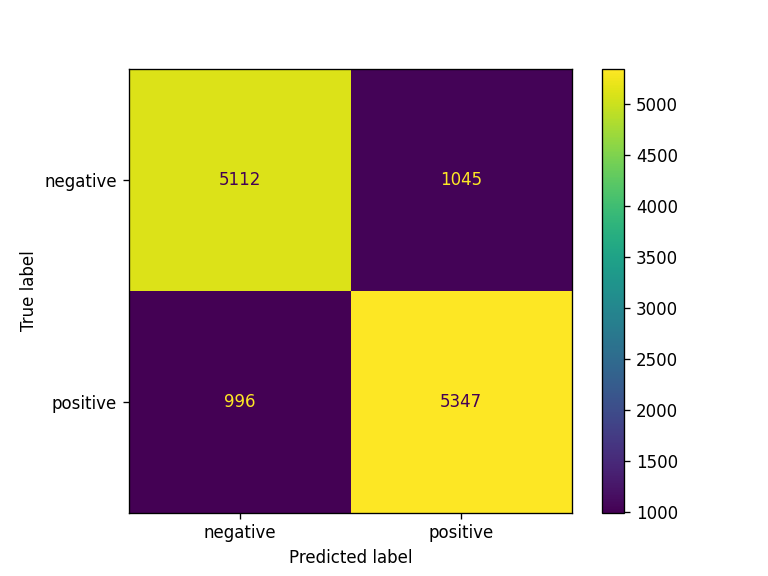
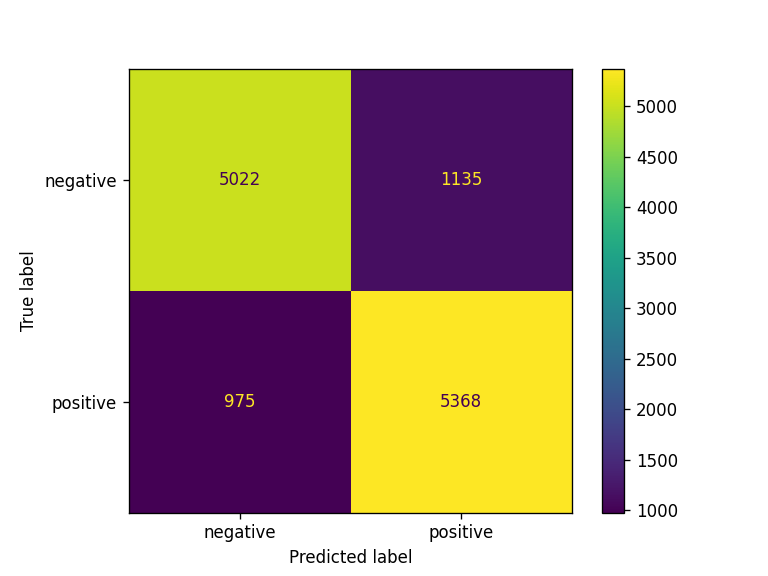
DVV HW-9 Text classification endpoint
+ finish up endpoint
+ finish with service
+ code cleanup

diff --git a/app/classification_train.py b/app/classification_train.py
@@ -1,38 +1,34 @@
-import sys
-import os
 import pandas as pd
 from sklearn.ensemble import RandomForestClassifier
 from sklearn.feature_extraction.text import TfidfVectorizer
 import pickle
 
-from sklearn.linear_model import SGDClassifier
 from sklearn.metrics import confusion_matrix, ConfusionMatrixDisplay, accuracy_score, f1_score
-from sklearn.model_selection import train_test_split, StratifiedKFold, GridSearchCV
-from sklearn.preprocessing import MaxAbsScaler, LabelEncoder
-import xgboost as xgb
-from core.preprocessing import clear_text
+from sklearn.model_selection import train_test_split, GridSearchCV
+from sklearn.preprocessing import LabelEncoder, MaxAbsScaler
 import matplotlib.pyplot as plt
 
-# print(os.getcwd())
-# dataset_path = sys.argv[1]
-# model_path = sys.argv[2]
-static_assets_path = os.getcwd() + '/static'
-datasets_path = static_assets_path + '/datasets'
-models_path = static_assets_path + '/models'
-misc_path = static_assets_path + '/misc'
+from core.preprocessing import text_preprocessing
+from core.config import settings
 
-dataset_file = datasets_path + '/imdb.csv'
-vectorizer_path = misc_path + '/tfidf_vectorizer.pickle'
-scaler_file = misc_path + '/min_max_scaler.pickle'
-encoder_file = misc_path + '/label_encoder.pickle'
-conf_matrix_img_file = misc_path + '/conf_matrix.png'
-metrics_file = misc_path + '/metrics.txt'
-model_file = models_path + '/random_forest_model.pickle'
+dataset_file = settings.STATIC_FILES_PATH + '/datasets/imdb.csv'
+vectorizer_path = settings.VECTORIZER_FILE
+scaler_file = settings.SCALER_FILE
+encoder_file = settings.LABEL_ENCODER_FILE
+conf_matrix_img_file = settings.STATIC_FILES_PATH + '/misc/conf_matrix.png'
+metrics_file = settings.STATIC_FILES_PATH + '/misc/metrics.txt'
+model_file = settings.MODEL_PATH_FILE
+
+
+def cleanup_text(txt: str) -> str:
+    return ' '.join(text_preprocessing(txt, ('clear', 'tokenize', 'stop-words', 'stemming'), {}))
+
 
 print('Reading dataset....')
 df = pd.read_csv(dataset_file)
 print('Cleanup corpus....')
-df['review_cleaned'] = df['review'].tolist()
+
+df['review_cleaned'] = df['review'].apply(cleanup_text).tolist()
 
 print('Vectorize corpus....')
 tfidf = TfidfVectorizer(lowercase=True,
@@ -85,7 +81,6 @@ disp = ConfusionMatrixDisplay(confusion_matrix=cm, display_labels=encoder.classe
 disp.plot()
 plt.savefig(conf_matrix_img_file, dpi=120)
 
-
 print('Storing vectorizer....')
 pickle.dump(tfidf, open(vectorizer_path, 'wb'))
 print('Storing scaler....')
@@ -97,4 +92,3 @@ pickle.dump(model, open(model_file, 'wb'))
 print('All done...')
 with open(metrics_file, "w") as outfile:
     outfile.write(f"\nAccuracy = {round(accuracy, 2)}, F1 Score = {round(f1, 2)}\n\n")
-

diff --git a/app/core/event_handler.py b/app/core/event_handler.py
@@ -1,28 +1,78 @@
+import os
+import pickle
+import zipfile
 from typing import Callable
 
+import requests
 from fastapi import FastAPI
+from fastapi.logger import logger
 
-from app.services.model import MLModel
+from app.core.config import Settings
 
 
-def _startup_model(app: FastAPI, model_path: str) -> None:
-    model_instance = MLModel(model_path)
+def _startup_model(app: FastAPI, settings: Settings) -> None:
+    file = open(settings.MODEL_PATH_FILE, 'rb')
+    model_instance = pickle.load(file)
     app.state.model = model_instance
+
+    file = open(settings.VECTORIZER_FILE, 'rb')
+    app.state.vectorizer = pickle.load(file)
+    file.close()
+
+    file = open(settings.SCALER_FILE, 'rb')
+    app.state.scaler = pickle.load(file)
+    file.close()
+
+    file = open(settings.LABEL_ENCODER_FILE, 'rb')
+    app.state.label_encoder = pickle.load(file)
+    file.close()
 
 
 def _shutdown_model(app: FastAPI) -> None:
     app.state.model = None
+    app.state.vectorizer = None
+    app.state.scaler = None
+    app.state.label_encoder = None
 
 
-def start_app_handler(app: FastAPI, model_path: str) -> Callable:
+def start_app_handler(app: FastAPI, settings: Settings) -> Callable:
     def startup() -> None:
-        _startup_model(app, model_path)
-
+        logger.info("Staring up!!!!")
+        _download_model(settings)
+        _startup_model(app, settings)
     return startup
+
+
+def _download_model(settings) -> None:
+    logger.info('Checking model existence')
+    if os.path.exists(settings.MODEL_PATH_FILE):
+        logger.info('Model Exists')
+        return
+    logger.info('No model exists ... downloading')
+    artifact_url = 'https://api.github.com/repos/{user}/{repo}/actions/artifacts/{art_id}/zip'.format(
+        user=settings.GITHUB_USER,
+        repo=settings.GITHUB_REPO,
+        art_id=settings.GITHUB_ARTIFACT_ID,
+    )
+
+    if not os.path.exists(settings.ARTIFACTS_PATH):
+        os.mkdir(settings.ARTIFACTS_PATH)
+
+    logger.info('Downloading artifact')
+    headers = {'Authorization': 'Bearer ' + settings.GITHUB_TOKEN}
+    r = requests.get(artifact_url, allow_redirects=True, headers=headers)
+    logger.info('Saving artifact to file')
+    with open(settings.ARTIFACTS_PATH_FILE, 'wb') as f:
+        for chunk in r.iter_content(1024):
+            f.write(chunk)
+    print('UnZip archive')
+    logger.info('UnZip artifact to file')
+    with zipfile.ZipFile(settings.ARTIFACTS_PATH_FILE, 'r') as zip_ref:
+        zip_ref.extractall(settings.STATIC_FILES_PATH)
+    logger.info('Done!')
 
 
 def stop_app_handler(app: FastAPI) -> Callable:
     def shutdown() -> None:
         _shutdown_model(app)
-
     return shutdown

diff --git a/app/services/classification.py b/app/services/classification.py
@@ -1,18 +1,35 @@
-from typing import Any, List
+import operator
+
+from fastapi import FastAPI
+from sklearn.ensemble import RandomForestClassifier
+from sklearn.feature_extraction.text import TfidfVectorizer
+from sklearn.preprocessing import LabelEncoder, MaxAbsScaler
 
 from app.core.preprocessing import text_preprocessing
 from app.models.classification import TextClassificationResponse
 
 
 class TextClassificationService:
+    model: RandomForestClassifier
+    vectorizer: TfidfVectorizer
+    scaler: MaxAbsScaler
+    label_encoder: LabelEncoder
 
-    def preprocess(self, text: str) -> str:
-        tokens = text_preprocessing(text, ('clear', 'tokenize', 'stop-words', 'stemming'), {})
-        return ' '.join(tokens)
+    def __init__(self, app: FastAPI):
+        self.model = app.state.model
+        self.vectorizer = app.state.vectorizer
+        self.scaler = app.state.scaler
+        self.label_encoder = app.state.label_encoder
 
     def classify(self, text: str) -> TextClassificationResponse:
+        tokens = text_preprocessing(text, ('clear', 'tokenize', 'stop-words', 'stemming'), {})
+        text_preprocessed = ' '.join(tokens)
+        vectorized_text = self.vectorizer.transform([text_preprocessed])
+        x = self.scaler.transform(vectorized_text)
+        y = self.model.predict_proba(x)
+        result = dict(zip(self.label_encoder.classes_, y[0]))
+        result_key = max(result.items(), key=operator.itemgetter(1))[0]
         resp = TextClassificationResponse
-        resp.label = 'positive'
-        resp.probability = 0.95
-        print(resp)
+        resp.label = result_key
+        resp.probability = round(result[result_key], 2)
         return resp

diff --git a/app/core/config.py b/app/core/config.py
@@ -1,14 +1,31 @@
-from pydantic_settings import BaseSettings
+import os
+
+from pydantic_settings import BaseSettings, SettingsConfigDict
 
 
 class Settings(BaseSettings):
     PROJECT_NAME: str = "FastAPI Template"
     API_V1_STR: str = "/api/v1"
 
-    MODEL_PATH: str = "app/ml_model/model.pth"
+    PROJECT_ROOT_PATH: str = os.path.abspath(os.path.join(os.path.dirname(__file__), "../.."))
 
-    class ConfigDict:
-        case_sensitive = True
+    STATIC_FILES_PATH: str = PROJECT_ROOT_PATH + "/static"
+    MISC_FILES_PATH: str = STATIC_FILES_PATH + "/misc"
+    MODEL_PATH: str = STATIC_FILES_PATH + "/models"
 
+    MODEL_PATH_FILE: str = MODEL_PATH + "/random_forest_model.pickle"
+    LABEL_ENCODER_FILE: str = MISC_FILES_PATH + "/label_encoder.pickle"
+    SCALER_FILE: str = MISC_FILES_PATH + "/min_max_scaler.pickle"
+    VECTORIZER_FILE: str = MISC_FILES_PATH + "/tfidf_vectorizer.pickle"
+    ARTIFACTS_PATH: str = PROJECT_ROOT_PATH + "/var"
+    ARTIFACTS_PATH_FILE: str = ARTIFACTS_PATH + "/artifacts.zip"
+    LOG_LEVEL: str = 'debug'
+    DOTENV_PATH: str | None = None
+    GITHUB_ARTIFACT_ID: str | None = None
+    GITHUB_USER: str | None = None
+    GITHUB_REPO: str | None = None
+    GITHUB_TOKEN: str | None = None
+
+    model_config = SettingsConfigDict(env_file=PROJECT_ROOT_PATH + "/.env", case_sensitive=True)
 
 settings = Settings()

diff --git a/app/main.py b/app/main.py
@@ -1,5 +1,4 @@
 from fastapi import FastAPI
-
 from app.api.api import api_router
 from app.api.heartbeat import heartbeat_router
 from app.core.config import settings
@@ -10,7 +9,7 @@ app = FastAPI(title=settings.PROJECT_NAME)
 app.include_router(heartbeat_router)
 app.include_router(api_router, prefix=settings.API_V1_STR, tags=["ML API"])
 
-app.add_event_handler("startup", start_app_handler(app, settings.MODEL_PATH))
+app.add_event_handler("startup", start_app_handler(app, settings))
 app.add_event_handler("shutdown", stop_app_handler(app))
 
 if __name__ == "__main__":

diff --git a/app/api/api.py b/app/api/api.py
@@ -38,6 +38,6 @@ async def similarity(payload: TextSimilarityRequest, service: SimilarityService 
 
 
 @api_router.post("/classification", response_model=TextClassificationResponse)
-async def classification(payload: TextClassificationRequest, service: TextClassificationService = Depends(TextClassificationService)) \
+async def classification(request: Request, payload: TextClassificationRequest) \
         -> TextClassificationResponse:
-    return service.classify('hello')
+    return TextClassificationService(request.app).classify(payload.text)

diff --git a/tests/test_similarity_negative.py b/tests/test_similarity_negative.py
@@ -2,7 +2,7 @@ from http import HTTPStatus
 
 from fastapi.testclient import TestClient
 
-from app.core.config import settings
+from app import settings
 from app.models.similarity import SimilarityAlgorithm
 
 first_text = "The bottle is empty."

diff --git a/tests/test_similarity_positive.py b/tests/test_similarity_positive.py
@@ -2,7 +2,7 @@ from http import HTTPStatus
 
 from fastapi.testclient import TestClient
 
-from app.core.config import settings
+from app import settings
 from app.models.similarity import SimilarityAlgorithm
 
 first_text = "The bottle is empty."

diff --git a/tests/test_api.py b/tests/test_api.py
@@ -2,7 +2,7 @@ from http import HTTPStatus
 
 from fastapi.testclient import TestClient
 
-from app.core.config import settings
+from app import settings
 
 
 def test_healthz(client: TestClient) -> None:
